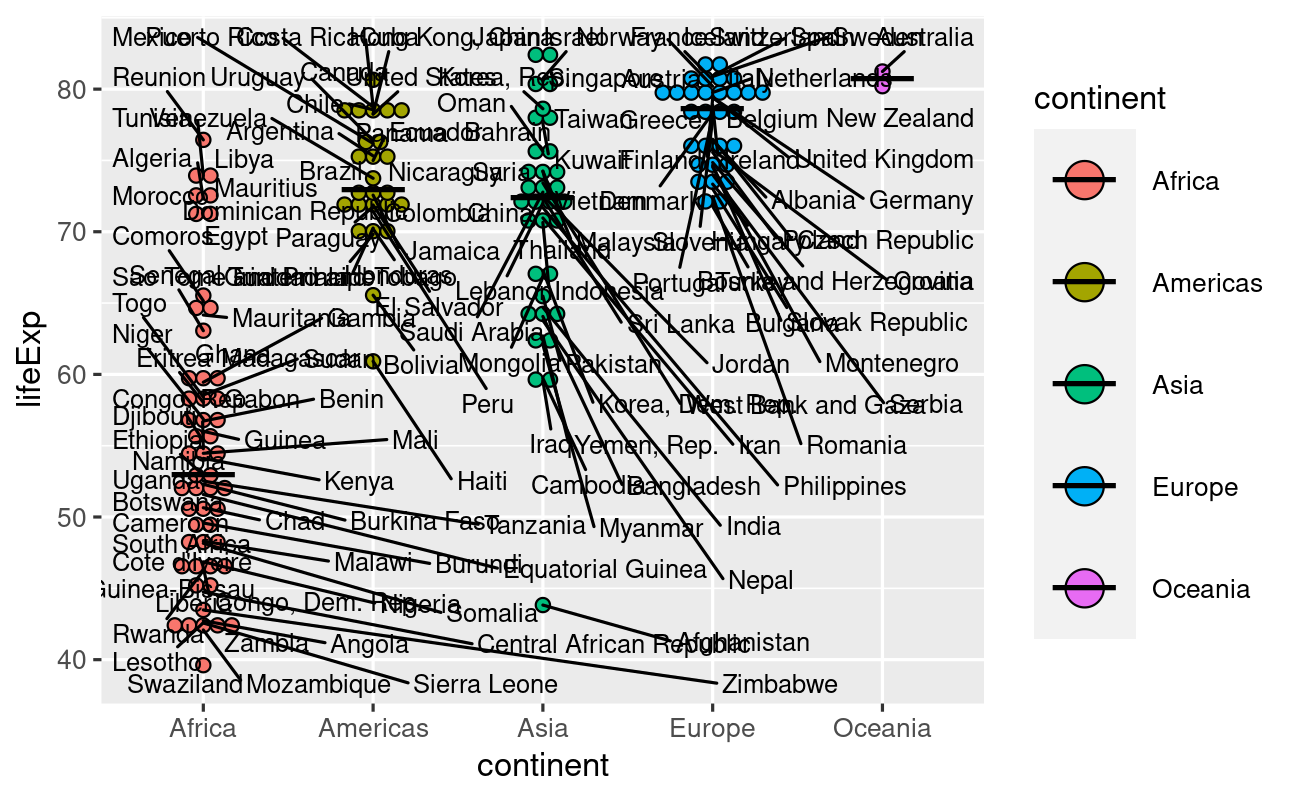
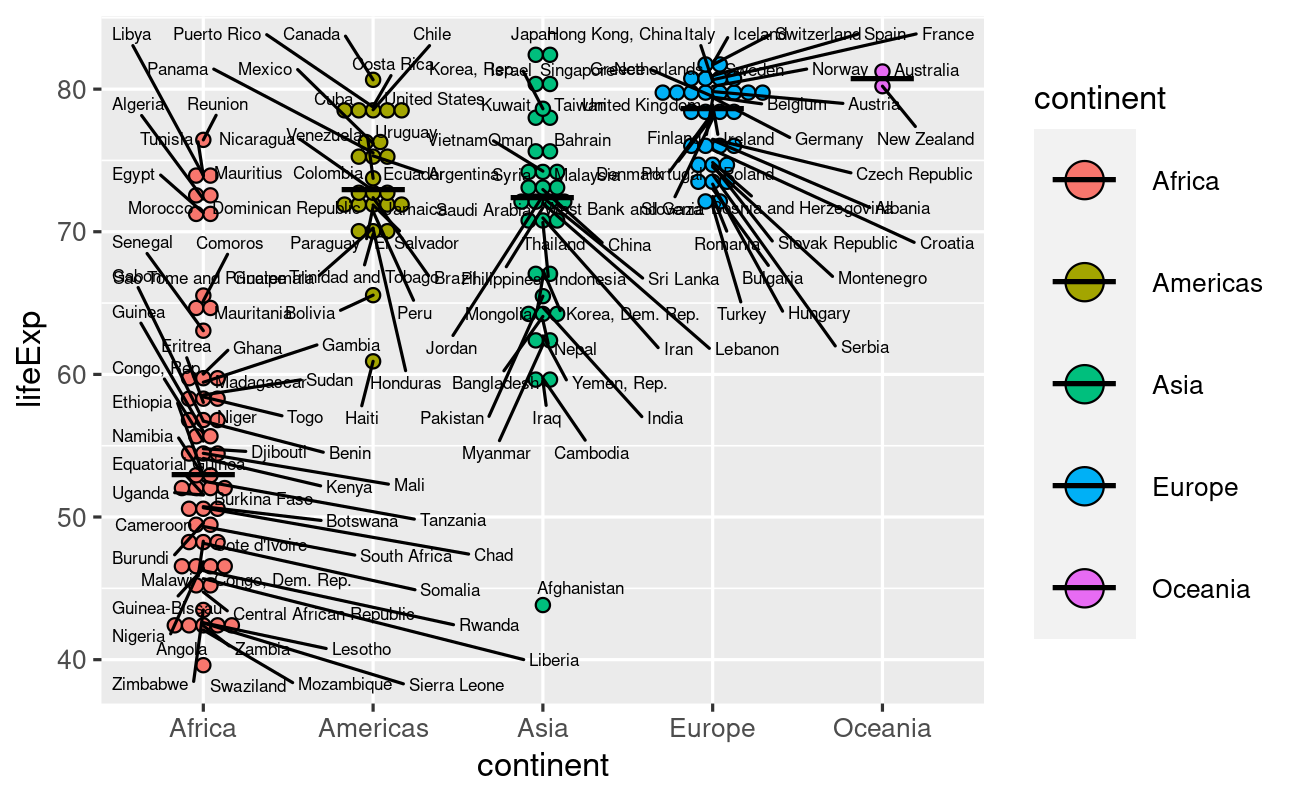
Fix text size

Changed region(s): [[0.0617, 0.0312, 0.7716, 0.875], [0.5556, 0.7188, 0.6173, 0.75]]

diff --git a/index.html b/index.html
@@ -1761,7 +1761,7 @@ gap_07 %&gt;%
   ggplot(aes(x = continent, y = lifeExp, fill = continent)) +
   geom_dotplot(binaxis = "y", binwidth = 1, stackdir = "center", dotsize = 1) +
   stat_summary(fun = median, geom = "point", shape = 95, size = 12) +
-* geom_text_repel(aes(label = country), size = 3)
+* geom_text_repel(aes(label = country), size = 2)
 ```
 ]
  
@@ -1780,7 +1780,7 @@ gap_07 %&gt;%
   ggplot(aes(x = continent, y = lifeExp, fill = continent)) +
   geom_dotplot(binaxis = "y", binwidth = 1, stackdir = "center", dotsize = 1) +
   stat_summary(fun = median, geom = "point", shape = 95, size = 12) +
-* geom_text_repel(aes(label = ifelse(lifeExp&gt;80, as.character(country), '')), size = 3)
+* geom_text_repel(aes(label = ifelse(lifeExp&gt;80, as.character(country), '')), size = 2)
 ```
 ]
  
